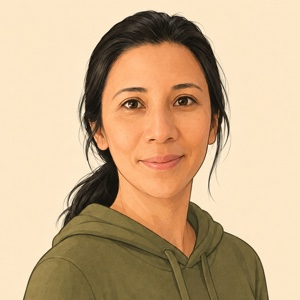
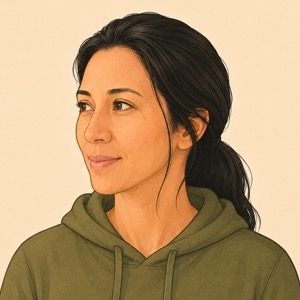
Purpose-made portrait for The Handler
Replaces the crop I took from the identity master, which was a front-facing
studio portrait cut down to fit. This one is drawn as an avatar in the same
three-quarter view as the other thirteen, so the set reads as one set rather
than twelve portraits and one photograph of a different kind.

Measured and cut by the same rule: subject starts 10.5% down and centres at
50.2%, giving a 300px window at y=30, x=51.

diff --git a/js/version.js b/js/version.js
@@ -10,7 +10,7 @@
  * The 1.12 lineage continues the old hand-bumped cache names, which reached
  * lucy-learns-v11 before this file existed.
  */
-export const APP_VERSION = '1.132.0';
+export const APP_VERSION = '1.133.0';
 
 /**
  * The day this build went out, shown under the version on the splash.
